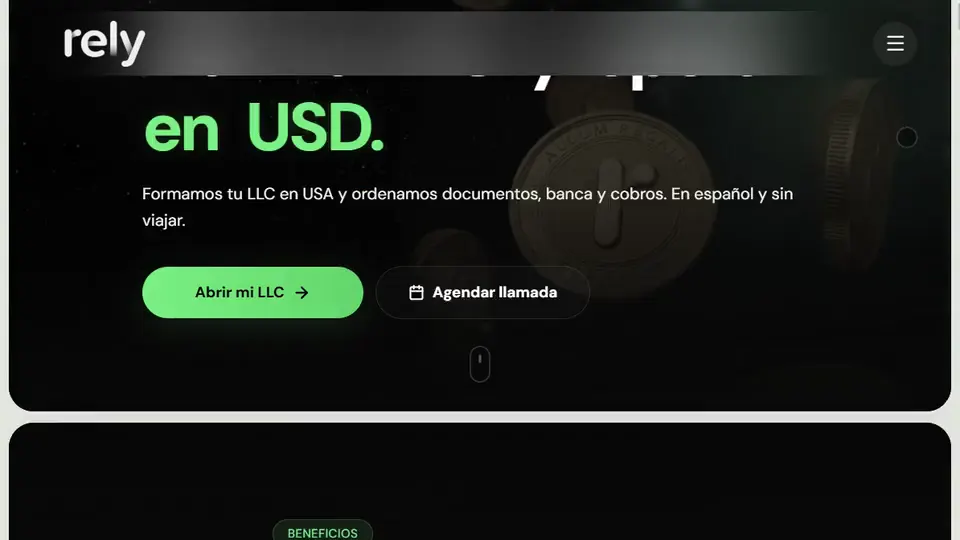
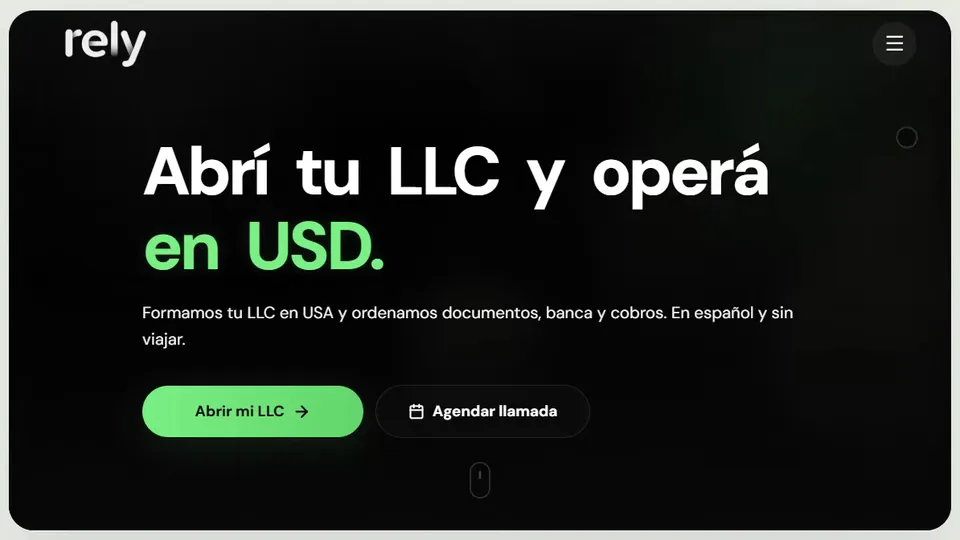
Ajusta integración de demos de Rely y Lemon

diff --git a/index.html b/index.html
@@ -4080,16 +4080,6 @@
             background: #171B20;
         }
 
-        .project-card[data-project="lemon"] {
-            --project-media-focus-x: 0%;
-        }
-
-        .project-card[data-media-crop="panoramic-cover"] .project-media > video,
-        .project-card[data-media-crop="panoramic-cover"] .project-media > .project-media__poster {
-            transform: scale(1.25);
-            transform-origin: var(--project-media-focus-x, 50%) 50%;
-        }
-
         .project-card .project-media::after {
             content: "";
             position: absolute;
@@ -4796,10 +4786,10 @@
                     <div id="projects-carousel-track" class="projects-mosaic relative z-10">
                     <article class="project-card gsap-reveal" data-project="rely">
                         <div class="project-media">
-                            <img class="project-media__poster" data-project-poster src="assets/proyectos/rely-poster.webp" alt="" width="960" height="540" loading="lazy" decoding="async" fetchpriority="low">
-                            <video data-project-video muted loop playsinline preload="none" poster="assets/proyectos/rely-poster.webp" aria-label="Demo de la plataforma Rely">
-                                <source src="assets/proyectos/rely-demo.webm" type="video/webm">
-                                <source src="assets/proyectos/rely-demo.mp4" type="video/mp4">
+                            <img class="project-media__poster" data-project-poster src="assets/proyectos/rely-poster.webp?v=20260727-4" alt="" width="960" height="540" loading="lazy" decoding="async" fetchpriority="low">
+                            <video data-project-video muted loop playsinline preload="none" poster="assets/proyectos/rely-poster.webp?v=20260727-4" aria-label="Demo de la plataforma Rely">
+                                <source src="assets/proyectos/rely-demo.webm?v=20260727-4" type="video/webm">
+                                <source src="assets/proyectos/rely-demo.mp4?v=20260727-4" type="video/mp4">
                             </video>
                         </div>
                         <div class="project-card__body">
@@ -4870,12 +4860,12 @@
                         </div>
                     </article>
 
-                    <article class="project-card gsap-reveal" data-project="lemon" data-media-crop="panoramic-cover">
+                    <article class="project-card gsap-reveal" data-project="lemon">
                         <div class="project-media">
-                            <img class="project-media__poster" data-project-poster src="assets/proyectos/lemon-poster.webp" alt="" width="960" height="540" loading="lazy" decoding="async" fetchpriority="low">
-                            <video data-project-video muted loop playsinline preload="none" poster="assets/proyectos/lemon-poster.webp" aria-label="Demo de Lemon Box y su entorno de configuración">
-                                <source src="assets/proyectos/lemon-demo.webm" type="video/webm">
-                                <source src="assets/proyectos/lemon-demo.mp4" type="video/mp4">
+                            <img class="project-media__poster" data-project-poster src="assets/proyectos/lemon-poster.webp?v=20260727-4" alt="" width="960" height="540" loading="lazy" decoding="async" fetchpriority="low">
+                            <video data-project-video muted loop playsinline preload="none" poster="assets/proyectos/lemon-poster.webp?v=20260727-4" aria-label="Demo de Lemon Box y su entorno de configuración">
+                                <source src="assets/proyectos/lemon-demo.webm?v=20260727-4" type="video/webm">
+                                <source src="assets/proyectos/lemon-demo.mp4?v=20260727-4" type="video/mp4">
                             </video>
                         </div>
                         <div class="project-card__body">
@@ -5322,9 +5312,9 @@
                     },
                     rely: {
                         name: "Rely",
-                        poster: "assets/proyectos/rely-poster.webp",
-                        webm: "assets/proyectos/rely-demo.webm",
-                        mp4: "assets/proyectos/rely-demo.mp4"
+                        poster: "assets/proyectos/rely-poster.webp?v=20260727-4",
+                        webm: "assets/proyectos/rely-demo.webm?v=20260727-4",
+                        mp4: "assets/proyectos/rely-demo.mp4?v=20260727-4"
                     },
                     lain: {
                         name: "Lain",
@@ -5340,9 +5330,9 @@
                     },
                     lemon: {
                         name: "Lemon Box",
-                        poster: "assets/proyectos/lemon-poster.webp",
-                        webm: "assets/proyectos/lemon-demo.webm",
-                        mp4: "assets/proyectos/lemon-demo.mp4"
+                        poster: "assets/proyectos/lemon-poster.webp?v=20260727-4",
+                        webm: "assets/proyectos/lemon-demo.webm?v=20260727-4",
+                        mp4: "assets/proyectos/lemon-demo.mp4?v=20260727-4"
                     }
                 };
                 const capabilityMotionBlocked = window.matchMedia("(prefers-reduced-motion: reduce)").matches || Boolean(navigator.connection?.saveData);
